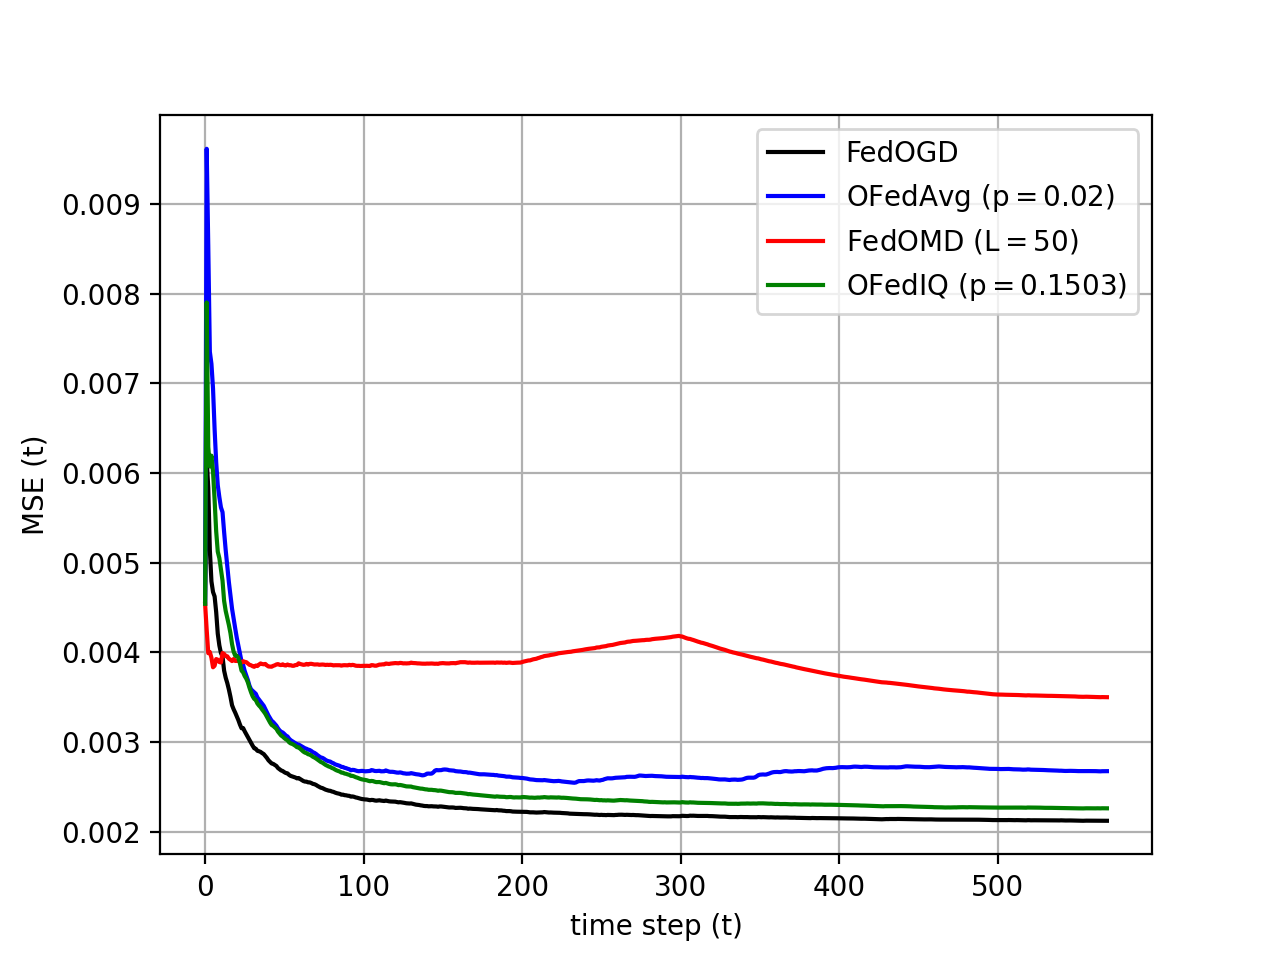
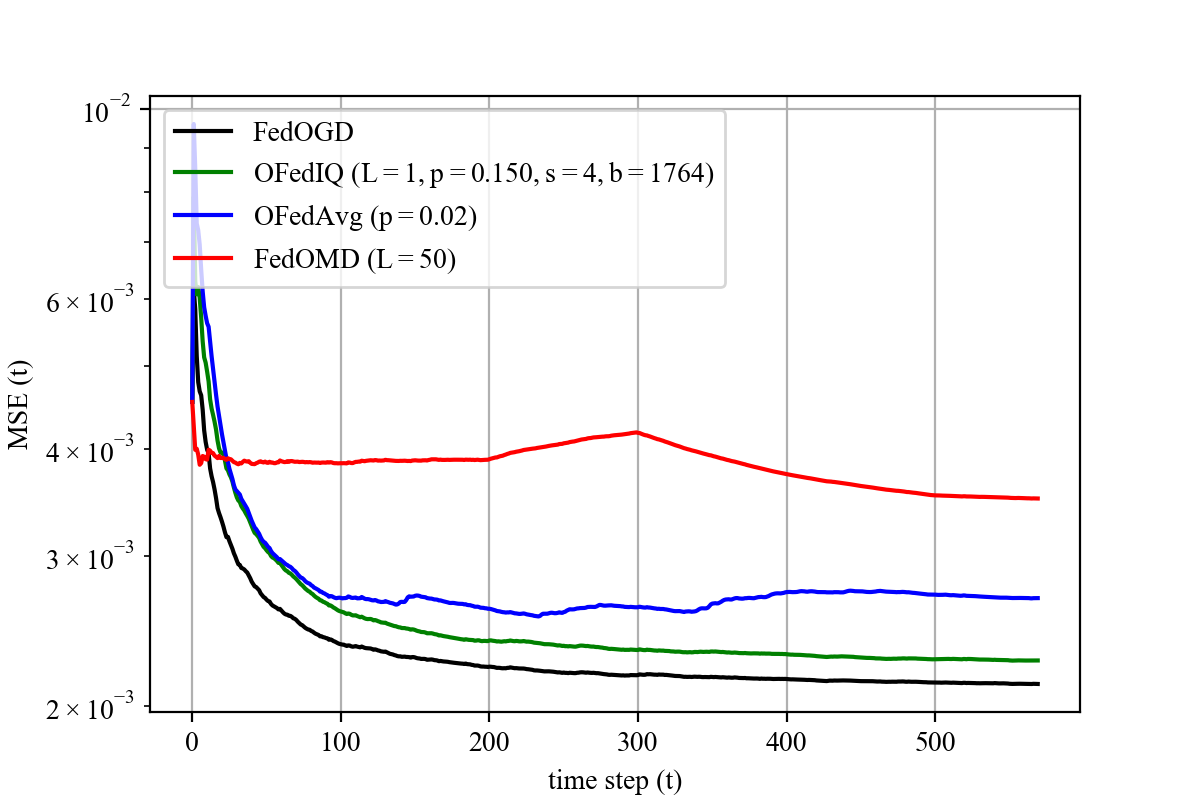
230727 15:41

diff --git a/main.py b/main.py
@@ -2,13 +2,13 @@ import time
 import pickle
 import numpy as np
 
-from data   import Room_data, Air_data
-#from data_L import CIFAR_10_data, MNIST_data, EMNIST_data, data_shuffle
+from data   import Room_data, Air_data, Energy_data
+from data_L import CIFAR_10_data, MNIST_data, EMNIST_data, data_shuffle
 from model  import OFL_Model
 
 K = 1000
-D = 60362 # MNIST 34826 / CIFAR_10 60362 / EMNIST 60442 / Air 4353 / Room 5380
-P = 0.02
+D = 4353 # MNIST 34826 / CIFAR_10 60362 / EMNIST 60442 / Air,En 4353 / Room 5380
+P = 0.10
 
 def opt_param(p1, D, print_result):
     
@@ -37,7 +37,7 @@ def opt_param(p1, D, print_result):
     return min_index, min_alpha, int(min_alpha * D), min_p2
 s, _, b, p = opt_param(P, D, True)
 
-data, x_train, y_train, input_size = Air_data()                                                # MNIST_data() #Room_data()
+data, x_train, y_train, input_size = Energy_data()                                                # MNIST_data() #Room_data()
 print("Input Dimension: ", input_size)
 task = 'reg'                                                                                        # task type
 
@@ -49,13 +49,13 @@ Model_list.append(OFL_Model('OFedIQ', task, K, [True, s, b], p, 1, input_size))
 print("========= Model_list is generated ===================")
 print()
 
-# initial_weights = Model_list[0].pre_train(x_train[0:10], y_train[0:10], 1)                    # Pre-train data length
-initial_weights = Model_list[0][0].get_weights()
+initial_weights = Model_list[0].pre_train(x_train[0:2], y_train[0:2], 1)                    # Pre-train data length
+# initial_weights = Model_list[0][0].get_weights()
 for model in Model_list:                                                                            ## C:20000, E:100, M:1
     for i in range(K+1):
         model[i].set_weights(initial_weights)
 
-iter_max = 10                                                                                       # iter_max
+iter_max = 6                                                                                       # iter_max
 i_max = len(y_train) // K                                                                           ## C:20, E:15, M:15
 print()
 print("Total timesteps :", iter_max*i_max, "| Data reuse :", iter_max, "| steps per dataset :", i_max)

diff --git a/data.py b/data.py
@@ -99,7 +99,7 @@ def Energy_data():
     X_train = [list(i) for i in zip(*X)]
     X_train = np.array(X_train).reshape(T, input_size, 1)
     
-    return X_train, y_train, input_size
+    return 'Energy', X_train, y_train, input_size
 
 
 def NN5_data():

diff --git a/result.py b/result.py
@@ -37,7 +37,7 @@ elif task == 'reg':
 
 plt.rcParams["font.family"] = "Times New Roman"
 plt.grid()
-plt.legend()
+plt.legend(loc=2)
 
 plt.savefig(f'./Figures_L/{task}_{code}.png', dpi=200, facecolor="white")
 plt.show()

diff --git a/test.py b/test.py
@@ -1,7 +1,7 @@
 import pickle
 import matplotlib.pyplot  as plt
 
-task = 'clf'
+task = 'reg'
 
 code = input('Code:')
 
